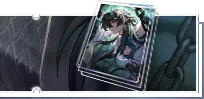
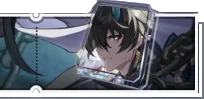
Fixes

diff --git a/src/components/Main.js b/src/components/Main.js
@@ -165,8 +165,8 @@ export default function Main({
       gradient: "40, 33, 36",
     },
     "2.0.1": {
-      char: "black",
-      weap: "black",
+      char: "#242534",
+      weap: "#20244c",
       "rerun-char": "#0f1222",
       "rerun-weap": "black",
       gradient: "40, 33, 36",
@@ -272,14 +272,14 @@ export default function Main({
   const sliderVariants = {
     incoming: (direction) => ({
       y:
-        bannerType === "beginner" ? "-50%" : direction > 0 ? "2000%" : "-2000%",
+        bannerType === "beginner" ? "-50%" : direction > 0 ? "-2000%" : "2000%",
       x: "-50%",
       opacity: 0,
     }),
     active: { y: "-50%", scale: 1, opacity: 1, x: "-50%" },
     exit: (direction) => ({
       y:
-        bannerType === "beginner" ? "-50%" : direction > 0 ? "-2000%" : "2000%",
+        bannerType === "beginner" ? "-50%" : direction > 0 ? "2000%" : "-2000%",
       x: "-50%",
       opacity: 0,
     }),
